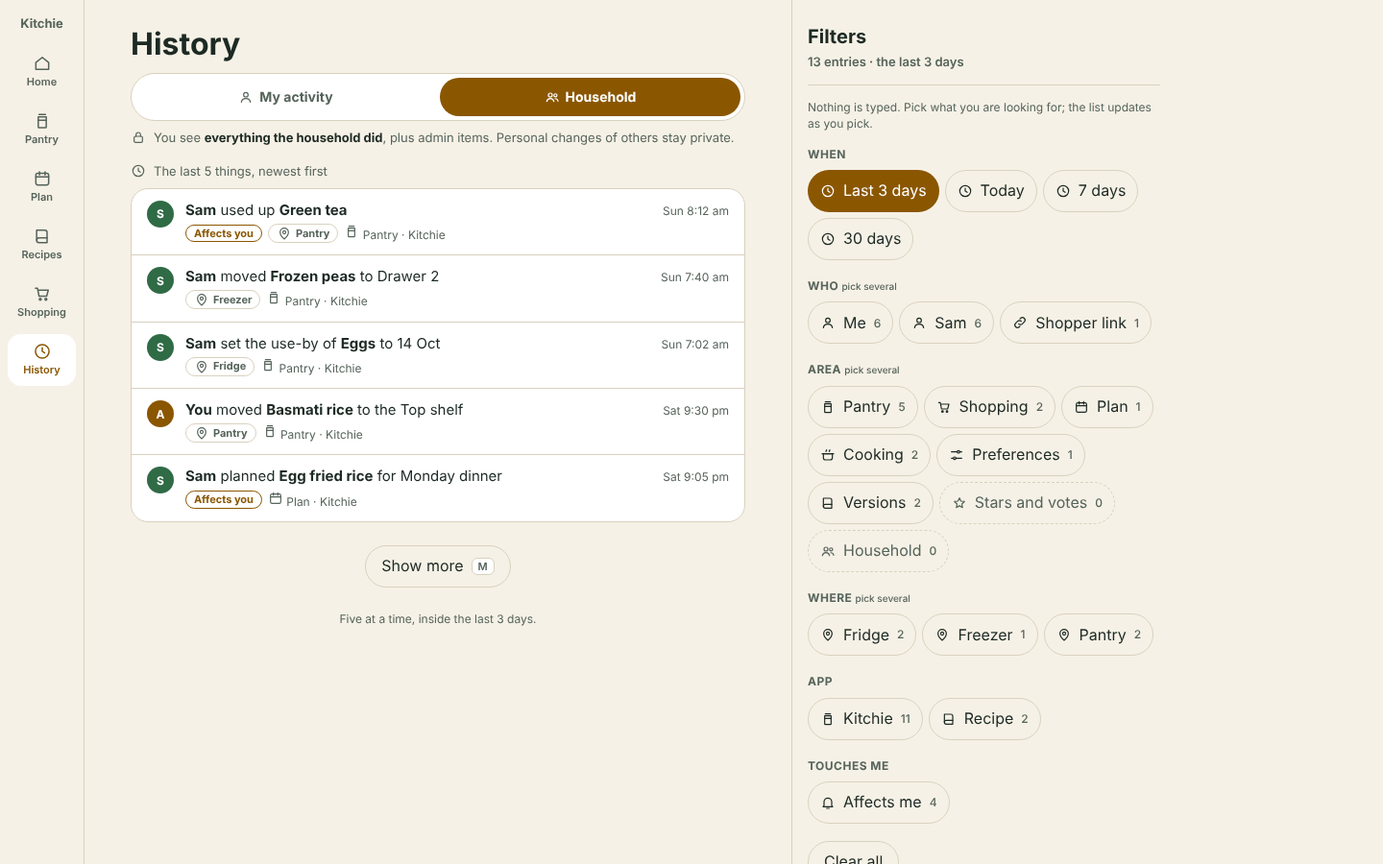
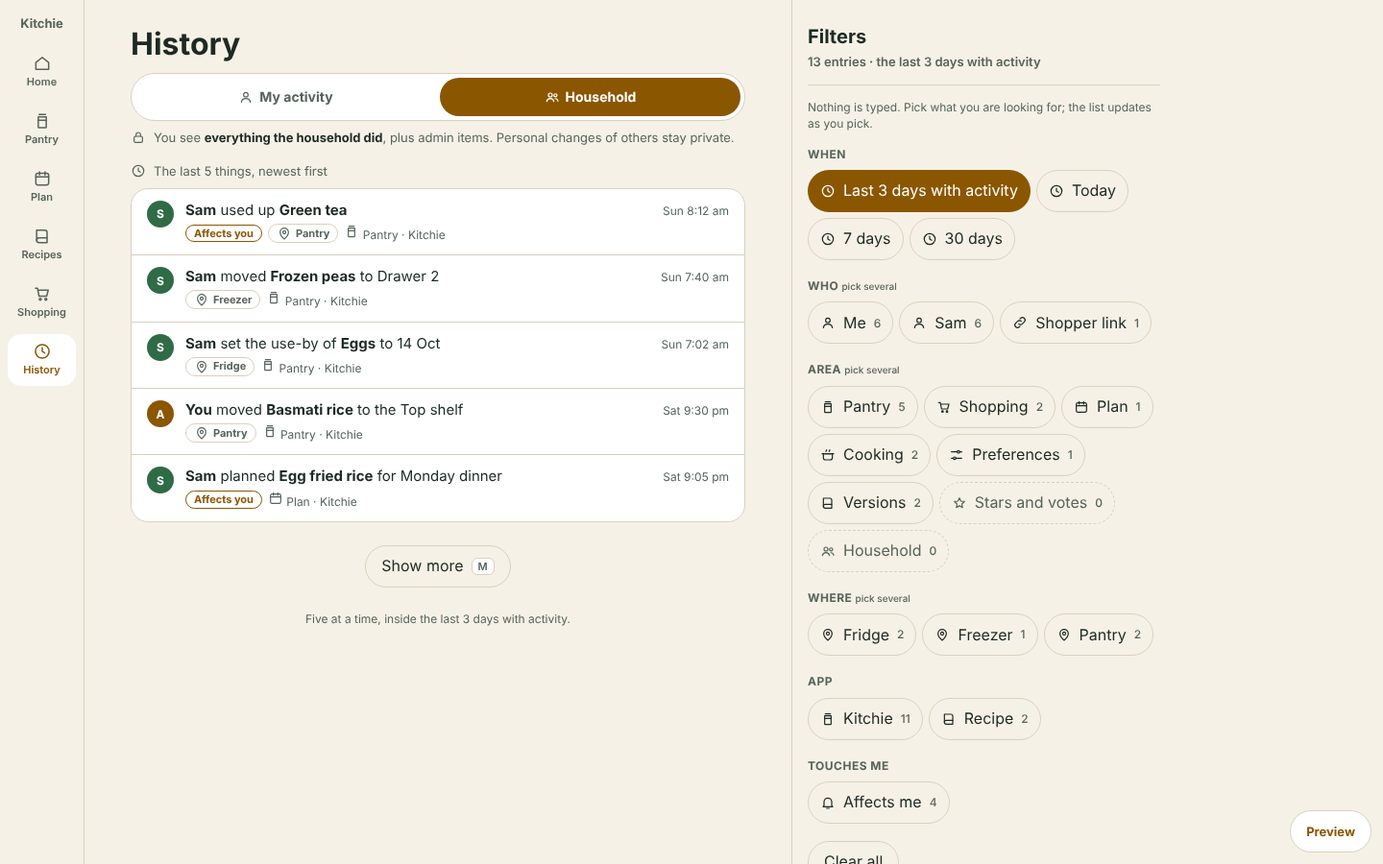
History option D: the cap is three calendar days with a change; sample shows a skipped quiet day (H6)
Claude-Session: https://claude.ai/code/session_01X9mXLMoS8997Sm3EbLynaE

diff --git a/history/option-d/option-d.js b/history/option-d/option-d.js
@@ -31,10 +31,11 @@ var P={
 };
 var ic=function(n,c){return '<svg viewBox="0 0 24 24" aria-hidden="true"'+(c?' class="'+c+'"':'')+'>'+(P[n]||"")+'</svg>'};
 
-/* ---------- sample world (Sun 11 Oct 2026, 9:15 am) ---------- */
+/* ---------- sample world (Sun 11 Oct 2026, 9:15 am) ----------
+   Activity runs Sun 11, Sat 10, (quiet Fri 9: no entries), Thu 8, then Wed 7 and Tue 6 which the cap must NOT show. Offsets d: 0,1,3 shown; 2 has no entry; 5+ are beyond the third active day. */
 var NOW=9*60+15;
 var LASTV={wed:{v:-4*1440+18*60+40,t:"Wed 7 Oct, 6:40 pm"},sat:{v:-1440+18*60+40,t:"Sat 10 Oct, 6:40 pm"}};
-var CAP=2; /* H6: three days = today and the two days before (Proposal: calendar days, not 72 hours) */
+var CAPDAYS=3; /* H6 (owner, voice, 12 Oct 2026: "calendar days, so long as there was a change"): the feed shows the three most recent calendar days that each had at least one change. Quiet days are skipped when counting, so this is neither a rolling 72 hours nor the last three calendar days. capD() below turns it into a day offset. */
 var PEOPLE={arjan:{n:"Arjan",i:"A",admin:1},sam:{n:"Sam",i:"S"}};
 /* actor = a person (H10). An assistant's action is stored under the person it acted for. "shop" is the one-off shopper link: a visitor, not an assistant. */
 var ACT={arjan:{n:"Arjan",i:"A",k:"person"},sam:{n:"Sam",i:"S",k:"person"},shop:{n:"Shopper link",i:"L",k:"visitor"}};
@@ -54,27 +55,27 @@ var EV=[
 {id:"e9",d:1,t:"12:10",w:"arjan",x:"put *Soy sauce* on the shopping list",ar:"Shopping",app:"kitchie",sc:"h",go:"item:soy",aff:{sam:"Soy sauce is on the list. You corrected its amount on Wednesday."}},
 {id:"e10",d:1,t:"09:30",w:"sam",x:"voted up *Lemon dal*",ar:"Stars and votes",app:"recipe",sc:"p",o:"sam",go:"recipe:dal"},
 {id:"e11",d:1,t:"09:28",w:"sam",x:"changed a personal preference: less coriander",ar:"Preferences",app:"kitchie",sc:"p",o:"sam",go:"all:"},
-{id:"e12",d:2,t:"20:15",w:"arjan",x:"cooked *Lemon dal*, used 3 items",ar:"Cooking",app:"kitchie",sc:"h",go:"recipe:dal"},
-{id:"e13",d:2,t:"18:05",w:"arjan",x:"edited *Lemon dal*: more lemon",ar:"Versions",app:"recipe",sc:"h",go:"recipe:dal"},
-{id:"e14",d:2,t:"11:00",w:"sam",x:"proposed a preference for Arjan: *less spicy at dinner*",ar:"Preferences",app:"kitchie",sc:"p",o:"arjan",to:"arjan",go:"all:",aff:{arjan:"Sam proposed a preference for you: less spicy at dinner. Waiting for you."},act:"Look"},
-{id:"e15",d:2,t:"09:12",w:"arjan",x:"changed the household quiet hours to start at 10 pm",ar:"Preferences",app:"kitchie",sc:"h",go:"all:",aff:{sam:"The household quiet hours now start at 10 pm. Your own setting is unchanged."}},
-{id:"e16",d:3,t:"19:00",w:"arjan",x:"changed the use-by of *Frozen peas* to 14 Oct",ar:"Pantry",app:"kitchie",pl:"Freezer",sc:"h",go:"item:peas"},
-{id:"e17",d:3,t:"17:40",w:"sam",x:"corrected *Red lentils* to 400 g",ar:"Pantry",app:"kitchie",pl:"Pantry",sc:"h",go:"item:lentils"},
-{id:"e18",d:3,t:"14:10",w:"arjan",x:"added *Red lentils, 1 kg* to the shopping list",ar:"Shopping",app:"kitchie",sc:"h",go:"item:lentils"},
-{id:"e19",d:4,t:"21:00",w:"arjan",x:"changed Sam's role to Sous chef",ar:"Household",app:"kitchie",sc:"a",go:"all:"},
-{id:"e20",d:4,t:"18:30",w:"arjan",x:"checked the amount of *Basmati rice*: still about right",ar:"Pantry",app:"kitchie",pl:"Pantry",sc:"h",go:"item:rice"},
-{id:"e21",d:4,t:"12:00",w:"sam",x:"corrected *Eggs* to 6",ar:"Pantry",app:"kitchie",pl:"Fridge",sc:"h",go:"item:eggs"}
+{id:"e12",d:3,t:"20:15",w:"arjan",x:"cooked *Lemon dal*, used 3 items",ar:"Cooking",app:"kitchie",sc:"h",go:"recipe:dal"},
+{id:"e13",d:3,t:"18:05",w:"arjan",x:"edited *Lemon dal*: more lemon",ar:"Versions",app:"recipe",sc:"h",go:"recipe:dal"},
+{id:"e14",d:3,t:"11:00",w:"sam",x:"proposed a preference for Arjan: *less spicy at dinner*",ar:"Preferences",app:"kitchie",sc:"p",o:"arjan",to:"arjan",go:"all:",aff:{arjan:"Sam proposed a preference for you: less spicy at dinner. Waiting for you."},act:"Look"},
+{id:"e15",d:3,t:"09:12",w:"arjan",x:"changed the household quiet hours to start at 10 pm",ar:"Preferences",app:"kitchie",sc:"h",go:"all:",aff:{sam:"The household quiet hours now start at 10 pm. Your own setting is unchanged."}},
+{id:"e16",d:4,t:"19:00",w:"arjan",x:"changed the use-by of *Frozen peas* to 14 Oct",ar:"Pantry",app:"kitchie",pl:"Freezer",sc:"h",go:"item:peas"},
+{id:"e17",d:4,t:"17:40",w:"sam",x:"corrected *Red lentils* to 400 g",ar:"Pantry",app:"kitchie",pl:"Pantry",sc:"h",go:"item:lentils"},
+{id:"e18",d:4,t:"14:10",w:"arjan",x:"added *Red lentils, 1 kg* to the shopping list",ar:"Shopping",app:"kitchie",sc:"h",go:"item:lentils"},
+{id:"e19",d:5,t:"21:00",w:"arjan",x:"changed Sam's role to Sous chef",ar:"Household",app:"kitchie",sc:"a",go:"all:"},
+{id:"e20",d:5,t:"18:30",w:"arjan",x:"checked the amount of *Basmati rice*: still about right",ar:"Pantry",app:"kitchie",pl:"Pantry",sc:"h",go:"item:rice"},
+{id:"e21",d:5,t:"12:00",w:"sam",x:"corrected *Eggs* to 6",ar:"Pantry",app:"kitchie",pl:"Fridge",sc:"h",go:"item:eggs"}
 ];
 var MORE=[
-{id:"m1",d:5,t:"19:20",w:"arjan",x:"cooked *Lemon dal*, used 4 items",ar:"Cooking",app:"kitchie",sc:"h",go:"recipe:dal"},
-{id:"m2",d:5,t:"10:00",w:"sam",x:"added *Green tea* to the Basket",ar:"Pantry",app:"kitchie",pl:"Pantry",sc:"h",go:"item:tea"},
-{id:"m3",d:6,t:"18:00",w:"arjan",x:"saved *Lemon dal* with extra lemon as a try",ar:"Versions",app:"recipe",sc:"h",go:"recipe:dal"},
+{id:"m1",d:6,t:"19:20",w:"arjan",x:"cooked *Lemon dal*, used 4 items",ar:"Cooking",app:"kitchie",sc:"h",go:"recipe:dal"},
+{id:"m2",d:6,t:"10:00",w:"sam",x:"added *Green tea* to the Basket",ar:"Pantry",app:"kitchie",pl:"Pantry",sc:"h",go:"item:tea"},
+{id:"m3",d:7,t:"18:00",w:"arjan",x:"saved *Lemon dal* with extra lemon as a try",ar:"Versions",app:"recipe",sc:"h",go:"recipe:dal"},
 {id:"m4",d:7,t:"09:40",w:"arjan",x:"put *Egg fried rice* version 4 away",ar:"Versions",app:"recipe",sc:"h",go:"recipe:fried-rice"},
-{id:"m5",d:9,t:"20:10",w:"sam",x:"starred *Egg fried rice*",ar:"Stars and votes",app:"recipe",sc:"p",o:"sam",go:"recipe:fried-rice"}
+{id:"m5",d:10,t:"20:10",w:"sam",x:"starred *Egg fried rice*",ar:"Stars and votes",app:"recipe",sc:"p",o:"sam",go:"recipe:fried-rice"}
 ];
 var AREAS=["Pantry","Shopping","Plan","Cooking","Preferences","Versions","Stars and votes","Household"];
 var AREAICON={Pantry:"jar",Shopping:"cart",Plan:"cal",Cooking:"pot",Preferences:"sliders",Versions:"book","Stars and votes":"star",Household:"users"};
-var RANGES=[["3d","Last 3 days"],["today","Today"],["week","7 days"],["month","30 days"]];
+var RANGES=[["3d","Last 3 days with activity"],["today","Today"],["week","7 days"],["month","30 days"]];
 var GROUPS=[["when","When","clock"],["who","Who","users"],["area","Area","jar"],["place","Where","pin"],["app","App","book"],["aff","Touches me","bell"]];
 
 /* ---------- state ---------- */
@@ -99,6 +100,12 @@ function visible(e,p){ /* privacy and scope, D6 to D8 */
  if(e.sc==="a")return !!PEOPLE[p].admin;
  if(e.sc==="p")return e.o===p||e.to===p;
  return false}
+/* H6 cap: the day offset of the third most recent calendar day with a change the viewer can see. Counts active days, never calendar offsets; a quiet day adds nothing, so the feed looks further back until it has three. */
+function capD(){
+ var seen={},days=[];
+ EV.concat(MORE).forEach(function(e){if(visible(e,me())&&!seen[e.d]){seen[e.d]=1;days.push(e.d)}});
+ days.sort(function(a,b){return a-b});
+ return days.length?days[Math.min(CAPDAYS,days.length)-1]:0}
 function pool(){return EV.concat(S.range==="week"||S.range==="month"?MORE:[]).sort(function(a,b){return absMin(b)-absMin(a)})}
 function tabOK(e){
  var p=me();
@@ -116,18 +123,18 @@ function tokOK(e,skip){ /* same filter type = OR, different types = AND */
  var types={};S.toks.forEach(function(t){if(t.t!==skip){(types[t.t]=types[t.t]||[]).push(t)}});
  return Object.keys(types).every(function(k){return types[k].some(function(t){return tokOne(e,t)})})}
 function rangeOK(e){
- if(S.range==="3d")return e.d<=CAP;
+ if(S.range==="3d")return e.d<=capD();
  if(S.range==="today")return e.d===0;
  if(S.range==="week")return e.d<=7;
  return true}
 function list(){return pool().filter(function(e){return visible(e,me())&&tabOK(e)&&tokOK(e)&&rangeOK(e)})}
-function catchAll(){return pool().filter(function(e){return e.d<=CAP&&absMin(e)>S.seen&&visible(e,me())})}
+function catchAll(){return pool().filter(function(e){return e.d<=capD()&&absMin(e)>S.seen&&visible(e,me())})}
 function catchPool(){return catchAll().filter(tabOK)}
 function catchList(){var L=catchPool();return S.aff?L.filter(function(e){return e.aff&&e.aff[me()]}):L}
-function capCut(){return S.seen<-CAP*1440} /* the cap cut the window: last visit is older than the cap */
-function hidden(){var o={};pool().forEach(function(e){if(e.d<=CAP&&e.sc==="p"&&e.o!==me()&&e.to!==me()){var k=e.d+"|"+e.o;o[k]=(o[k]||0)+1}});return o}
+function capCut(){return S.seen<-capD()*1440} /* the cap cut the window: the last visit is older than the start of the third active day */
+function hidden(){var o={};pool().forEach(function(e){if(e.d<=capD()&&e.sc==="p"&&e.o!==me()&&e.to!==me()){var k=e.d+"|"+e.o;o[k]=(o[k]||0)+1}});return o}
 function hiddenTotal(){var H=hidden();return Object.keys(H).reduce(function(s,k){return s+H[k]},0)}
-function hlList(){return EV.filter(function(e){return e.d<=CAP&&absMin(e)>S.seen&&visible(e,me())&&e.aff&&e.aff[me()]}).sort(function(a,b){return absMin(b)-absMin(a)})}
+function hlList(){return EV.filter(function(e){return e.d<=capD()&&absMin(e)>S.seen&&visible(e,me())&&e.aff&&e.aff[me()]}).sort(function(a,b){return absMin(b)-absMin(a)})}
 function shortDay(d){return ["Sun","Sat","Fri","Thu","Wed","Tue","Mon","Sun","Sat","Fri","Thu"][d]}
 function dayLabel(d){var names=["Sun","Sat","Fri","Thu","Wed","Tue","Mon","Sun","Sat","Fri","Thu"];var dn=11-d;
  return {a:d===0?"Today":d===1?"Yesterday":names[d]+" "+dn+" Oct",b:d<2?names[d]+" "+dn+" Oct":""}}
@@ -171,8 +178,8 @@ function dayBlocks(L,byTimeAll){
   out+='</section>'});
  return out}
 function olderLine(){ /* H6 Proposal: the cap cut the window */
- return '<div class="more cap"><p class="capline">'+ic("clock","sm")+'<span>Showing the last 3 days. Search for older.</span></p><button type="button" class="sec2" data-pick>'+ic("sliders","sm")+' Pick a filter <span class="kbd">F</span></button></div>'}
-function skeleton(){var r='<div class="sk"><span class="av"></span><div><i></i><i class="s"></i></div></div>';return '<div aria-busy="true" aria-label="Loading history"><section class="day"><div class="lbl sklbl"><i></i></div><div class="pg">'+r+r+r+'</div></section><p class="note">Fetching the last 3 days, this tab only.</p></div>'}
+ return '<div class="more cap"><p class="capline">'+ic("clock","sm")+'<span>Showing the last 3 days with activity. Search for older.</span></p><button type="button" class="sec2" data-pick>'+ic("sliders","sm")+' Pick a filter <span class="kbd">F</span></button></div>'}
+function skeleton(){var r='<div class="sk"><span class="av"></span><div><i></i><i class="s"></i></div></div>';return '<div aria-busy="true" aria-label="Loading history"><section class="day"><div class="lbl sklbl"><i></i></div><div class="pg">'+r+r+r+'</div></section><p class="note">Fetching the last 3 days with activity, this tab only.</p></div>'}
 function feed(){
  if(S.state==="loading")return skeleton();
  if(S.state==="empty")return emptyState("empty");
@@ -185,15 +192,15 @@ function feed(){
  if(!L.length)return isFiltered()?emptyState("zero"):emptyState(S.tab==="mine"?"mineEmpty":"empty");
  if(!isFiltered()){ /* H7b, H8: the last five, newest first, five in total across pantry, recipes and shopping (Proposal) */
   var shown=L.slice(0,S.n),out='<p class="lastn">'+ic("clock","sm")+'<span>The last '+Math.min(S.n,L.length)+' things, newest first</span></p><div class="pg flatlist">'+shown.map(function(e){return evRow(e,true)}).join("")+'</div>';
-  if(L.length>S.n)out+='<div class="more"><button type="button" class="sec2" data-more>Show more <span class="kbd">M</span></button></div><p class="note">Five at a time, inside the last 3 days.</p>';
-  else out+='<div class="more cap"><p class="capline">'+ic("clock","sm")+'<span>That is all of the last 3 days. Pick a filter to look further back.</span></p><button type="button" class="sec2" data-pick>'+ic("sliders","sm")+' Pick a filter <span class="kbd">F</span></button></div>';
+  if(L.length>S.n)out+='<div class="more"><button type="button" class="sec2" data-more>Show more <span class="kbd">M</span></button></div><p class="note">Five at a time, inside the last 3 days with activity.</p>';
+  else out+='<div class="more cap"><p class="capline">'+ic("clock","sm")+'<span>That is all of the last 3 days with activity. Pick a filter to look further back.</span></p><button type="button" class="sec2" data-pick>'+ic("sliders","sm")+' Pick a filter <span class="kbd">F</span></button></div>';
   return out}
  return dayBlocks(L,true)}
-function rangeName(){return {"3d":"the last 3 days",today:"today",week:"the last 7 days",month:"the last 30 days"}[S.range]}
+function rangeName(){return {"3d":"the last 3 days with activity",today:"today",week:"the last 7 days",month:"the last 30 days"}[S.range]}
 function emptyState(k){
  var m={
   empty:['bowl','A quiet kitchen so far','Add a jar of something or cook a meal and it lands here, with who did it.','<button class="pri" data-act="plain">See a lively kitchen</button>'],
-  mineEmpty:['bowl','Nothing from you in the last 3 days','Your own changes and your votes show here.','<button class="sec2" data-tab="house">See the household</button>'],
+  mineEmpty:['bowl','Nothing from you in the last 3 days with activity','Your own changes and your votes show here.','<button class="sec2" data-tab="house">See the household</button>'],
   quiet:['check','Nothing since you were last here','All quiet. The last five things are one tap away.','<button class="pri" data-closecatch>Show the last five</button>'],
   none:['bell','None of these touch you','Nothing in the catch-up affects you.','<button class="sec2" data-affoff>Show all changes</button>']
  }[k];
@@ -213,7 +220,7 @@ function catchCard(){
  if(!all.length)return '<section class="catch" aria-label="Since you were last here"><div class="chead"><h2>'+ic("check")+'You are all caught up</h2>'+x+'</div><p class="sum">Nothing new since '+(S.seen>=NOW?"you cleared it just now":esc(S.lastTxt))+'. Enjoy the quiet.</p></section>';
  var rows=hl.slice(0,4).map(function(e){
   return '<div class="hl"><span class="ico">'+ic(e.rev?"book":e.w==="shop"?"cart":"bell")+'</span><div class="tx">'+esc(e.aff[me()])+'<small>'+esc(who(e))+' · '+dayLabel(e.d).a.toLowerCase()+', '+fmt(e.t)+'</small></div>'+(e.act?'<a class="go" href="'+href(e)+'">'+esc(e.act)+'</a>':'')+'</div>'}).join("");
- return '<section class="catch" aria-label="Since you were last here"><div class="chead"><h2>'+ic("bell")+'Since you were last here</h2>'+x+'</div><p class="sum">'+esc(S.lastTxt)+' · '+all.length+' change'+(all.length===1?"":"s")+(capCut()?' in the last 3 days':'')+(parts.length?': '+esc(parts.join(", ")):"")+'</p>'+
+ return '<section class="catch" aria-label="Since you were last here"><div class="chead"><h2>'+ic("bell")+'Since you were last here</h2>'+x+'</div><p class="sum">'+esc(S.lastTxt)+' · '+all.length+' change'+(all.length===1?"":"s")+(capCut()?' in the last 3 days with activity':'')+(parts.length?': '+esc(parts.join(", ")):"")+'</p>'+
   (hl.length?'<div class="lbl2">Affects you · '+hl.length+'</div>'+rows+(hl.length>4?'<p class="note left">and '+(hl.length-4)+' more in the feed, marked Affects you.</p>':''):'<p class="sum">Nothing changed that touches you.</p>')+
   (hl.length?'<div class="foot"><button type="button" class="lnk2" data-aff>'+(S.aff?'Show all changes':'Show only these')+'</button></div>':'')+'</section>'}
 
@@ -242,7 +249,7 @@ function filtersPanel(){ /* desktop lane: Proposal, H8 */
   '<p class="fhint">Nothing is typed. Pick what you are looking for; the list updates as you pick.</p>'+
   GROUPS.map(function(g){return sec(g,g[0]==="who"||g[0]==="area"||g[0]==="place"?"pick several":"")}).join("")+
   '<div class="acts2"><button type="button" class="sec2" data-clear>Clear all'+(n?' ('+n+')':'')+'</button>'+(always?'':'<button type="button" class="pri" data-closepanel>'+ic("check")+' Done</button>')+'</div>'+
-  '<p class="rule">'+ic("info","sm")+'<span>Counts are of what is already loaded for this tab. A range wider than 3 days asks the server for that window.</span></p></div></div>'}
+  '<p class="rule">'+ic("info","sm")+'<span>Counts are of what is already loaded for this tab. A range wider than the last 3 days with activity asks the server for that window.</span></p></div></div>'}
 function groupValue(g){
  if(g==="when")return RANGES.filter(function(r){return r[0]===S.range})[0][1];
  var v=S.toks.filter(function(t){return t.t===(g==="aff"?"aff":g)}).map(tokLabel);return v.length?v.join(", "):"Any"}
@@ -255,7 +262,7 @@ function sheetHtml(){ /* phone: H7a. Modelled on Pantry's Filters sheet (.sheet.
   '<div class="fbody">'+body+'</div><div class="ffoot"><button type="button" class="pri wide" data-closepanel>Show '+n+' '+(n===1?'entry':'entries')+'</button><div class="flinks"><button type="button" class="link" data-clear>Clear</button><span></span></div></div></div></div>'}
 function scopeCard(){
  var adm=PEOPLE[me()].admin,hn=hiddenTotal();
- return '<div class="rule">'+ic("lock","sm")+'<span>'+(adm?'You are an <b>admin</b>: you also see household admin items. ':'You see the household\'s changes. Admin-only items are not shown to you. ')+'Other people\'s personal changes ('+hn+' in the last 3 days) stay private for everyone, admins too.</span></div>'}
+ return '<div class="rule">'+ic("lock","sm")+'<span>'+(adm?'You are an <b>admin</b>: you also see household admin items. ':'You see the household\'s changes. Admin-only items are not shown to you. ')+'Other people\'s personal changes ('+hn+' in the last 3 days with activity) stay private for everyone, admins too.</span></div>'}
 
 function railHtml(){
  var it=[["home","Home"],["jar","Pantry"],["cal","Plan"],["book","Recipes"],["cart","Shopping"],["clock","History"]];

diff --git a/docs/knowledge/history-option-d.md b/docs/knowledge/history-option-d.md
@@ -18,7 +18,7 @@ Later locked decisions (owner, voice, 11 Oct 2026, `history-options.md`): H4 cat
 
 Job: "I have been away. What happened in our kitchen, who did it, and does it affect me?"
 
-- **Entry (H4, H6, H8):** the "Since you were last here" catch-up, grouped by day, then person. **At most three days** (today and the two before, a Proposal), even if the last visit was longer ago. When the cap cut the window the feed ends with "Showing the last 3 days. Search for older." and a Pick a filter button (Proposal wording from H6).
+- **Entry (H4, H6, H8):** the "Since you were last here" catch-up, grouped by day, then person. **At most three calendar days that each had a change** (owner, voice, 12 Oct 2026: "calendar days, so long as there was a change"): quiet days are skipped when counting, and the feed looks back until it has three active days, even if the last visit was longer ago. Not a rolling 72 hours, not simply the last three calendar days. When the cap cut the window the feed ends with "Showing the last 3 days with activity. Search for older." and a Pick a filter button (Proposal wording from H6).
 - **Tabs (H10):** My activity and Household only. An assistant's action is shown as the person it acted for, with no extra mark.
 - **The X (H7, H7b):** an X on the catch-up clears it and shows the **last five** entries, newest first, with Show more (five at a time, inside the cap).
 - **Phone (H7a):** after the X, a Filters icon and "Pick a filter" open a bottom sheet drawn like Pantry's Filters sheet (`.sheet.tall`, `.strow`, `.mc` classes): first a list of filter groups (When, Who, Area, Where, App, Touches me), then the options of the one picked. Nothing is typed.
@@ -57,7 +57,7 @@ Marked **Superseded** where an owner decision removed them. Everything else is a
 
 - **D1. Feed first, search second.** **Revised:** the catch-up feed is first; "search" past it is structured filters only (H9). No search field.
 - **D2. Three tabs.** **Superseded by H10:** two tabs, My activity and Household. Default Household; keys 1 and 2. Each tab shows a count of changes not seen.
-- **D3. The window rule.** **Superseded by H6:** the window is since the last visit, at most three days (today and the two before; a rolling 72 hours is the open alternative). "Show 5 more days" is gone; older is a filter (When: 7 or 30 days).
+- **D3. The window rule.** **Superseded by H6:** the window is since the last visit, at most the three most recent calendar days that each had a change (quiet days skipped; not a rolling 72 hours). "Show 5 more days" is gone; older is a filter (When: 7 or 30 days).
 - **D4. Day, then person.** Inside a day, one card per person (initial, name, count). "By time" is a switch for one flat list. My activity is always flat. **Revised:** assistants are not separate cards (H10).
 - **D5. "Since you were last here" is cleared by the X.** **Revised (H7b Proposal):** the X, or key C, counts as caught up, so a dismissed catch-up is the new "last seen". The old "Mark as caught up" button is gone.
 - **D6. Privacy: shared by default, personal stays personal.** Unchanged.
@@ -68,14 +68,14 @@ Marked **Superseded** where an owner decision removed them. Everything else is a
 - **D11. Assistants tab.** **Superseded by H10.** Removed, with its card and filter.
 - **D12. Affects me.** Unchanged: a chip, the catch-up card (up to 4, then "and n more") and a filter. Computed on the server when the event is written.
 - **D13. Search is a typeahead of tokens.** **Superseded by H9.** Removed.
-- **D14. One filters set.** **Revised:** When (Last 3 days, Today, 7 days, 30 days), Who (me, the other member, shopper link), Area, Where, App, Touches me. Same type combines with OR, different types with AND. Counts shown; zero is dashed (as Pantry Filters). Phone: bottom sheet in two steps (pick a group, then options). Desktop: panel in the lane.
+- **D14. One filters set.** **Revised:** When (Last 3 days with activity, Today, 7 days, 30 days), Who (me, the other member, shopper link), Area, Where, App, Touches me. Same type combines with OR, different types with AND. Counts shown; zero is dashed (as Pantry Filters). Phone: bottom sheet in two steps (pick a group, then options). Desktop: panel in the lane.
 - **D15. Desktop layout.** Rail, 640px column, 400px lane (360px below 1240px). The lane shows the catch-up card (with its X) or the filter panel (F). Detail is no longer drawn here (H5), so the lane never holds a detail.
 - **D16. Phone layout.** One column; catch-up card on top; X on the card; after the X a Filters icon in the header and a Pick a filter button under the list. No key hints on touch.
 - **D17. Only changes are history.** Unchanged.
 - **D18. Undo.** **Superseded here:** undo lives in option C's flyout (H5).
 - **D19. Keys.** `F` filters, `1 2` tabs, `J K` move between entries (Enter opens), `G` group (catch-up), `C` clear the catch-up, `M` show more (last five), Ctrl/Cmd+Esc closes the open panel, Shift+? lists them (`shortcut-cues.md`). Removed: `/` search, `3`, `Z` undo, plain Esc clears search. `,` is left alone (item History in the Pantry).
-- **D20. Empty and zero states are playful and honest.** New household: "A quiet kitchen so far". Nothing from me: "Nothing from you in the last 3 days". Nothing since the last visit: "Nothing since you were last here" with Show the last five. Loading: skeleton rows, this tab only. No results: names the filters, "Look back 30 days" and "Clear filters".
-- **D21. (new) Last five.** Five newest entries in total across pantry, recipes and shopping, newest first, inside the three-day cap, Show more adds five. Proposal; whether five is per area is open.
+- **D20. Empty and zero states are playful and honest.** New household: "A quiet kitchen so far". Nothing from me: "Nothing from you in the last 3 days with activity". Nothing since the last visit: "Nothing since you were last here" with Show the last five. Loading: skeleton rows, this tab only. No results: names the filters, "Look back 30 days" and "Clear filters".
+- **D21. (new) Last five.** Five newest entries in total across pantry, recipes and shopping, newest first, inside the cap (three days with activity), Show more adds five. Proposal; whether five is per area is open.
 - **D22. (new) Catch-up shows everything in the window.** The catch-up feed is not itself limited to five; only the list after the X is.
 
 ## Open questions (what a wrong guess costs)
@@ -84,16 +84,18 @@ Marked **Superseded** where an owner decision removed them. Everything else is a
 - **O2. "There's only two things in the mobile."** The owner did not finish. Not guessed: the mockup does not assume two filter groups or two views (the sheet lists six groups).
 - **O3. Does a mark show an entry was done through an assistant (voice, chat) (H10)?** None is drawn and none is invented. Wrong guess either way: one chip.
 - **O4. Is a plain keyword box that matches only item, recipe and member names still wanted (H9 open)?** Not drawn.
-- **O5. Is the three-day cap calendar days or 72 hours?** Drawn: calendar days.
+- **O5. Is the three-day cap calendar days or 72 hours?** Settled by the owner (12 Oct 2026): calendar days with a change; quiet days are skipped. Drawn.
 - **O6. Does the catch-up itself stop at five, or only the list after the X?** Drawn: only after the X.
 - **O7. Desktop uses a filter panel rather than the phone's sheet, and the last five apply after leaving the catch-up (H8 Proposals to confirm).**
 - **O8. Does the X count as caught up?** Drawn: yes (H7b Proposal).
 - **O9. Where do entries with no item, recipe or day (preferences, household, shopping lists) open in option C?** Drawn: Everything.
 - **O10. Are votes and stars personal (D6), may admins see personal entries (D7), is "last seen" per person on the server or per device, how long is history kept?** As before: shared questions in `history-options.md`.
 
+**Mockup note (cap, H6):** the sample (Sun 11 Oct) now demonstrates the rule: Today (Sun 11) and Yesterday (Sat 10) are active, Fri 9 Oct has no entries and is skipped, Thu 8 Oct is the third active day, and the entries on Wed 7 Oct and earlier do not show. The code counts active days (`capD()` in `option-d.js`), not calendar offsets.
+
 ## What the default path loads, and what waits (`DESIGN.md` section 6)
 
-- **Loads on open:** the page, `option-d.css` (about 15 KB) and `option-d.js` (about 40 KB, includes the sample data that the build replaces with a call), `theme.css`, `shared.css`, `cues.css`. One call: the **active tab only**, for the last 3 days at most, since the last visit, grouped on the server, with the catch-up line fields (`affects` for me) included. The other two tabs show only a count (a small count call, or one number in the same response).
-- **Deferred until asked:** the other tab; the last-five list (fetched when the X is pressed; it is inside the window already loaded, so no call is needed unless the catch-up was empty); anything wider than three days (a server window, only when a When filter is picked); filter counts (fetched on opening Filters); the entry itself (option C's flyout loads on tap, never preloaded); the shortcuts list (built on first Shift+?); other themes (theme.js).
+- **Loads on open:** the page, `option-d.css` (about 15 KB) and `option-d.js` (about 40 KB, includes the sample data that the build replaces with a call), `theme.css`, `shared.css`, `cues.css`. One call: the **active tab only**, for the last 3 days with activity at most, since the last visit, grouped on the server, with the catch-up line fields (`affects` for me) included. The other two tabs show only a count (a small count call, or one number in the same response).
+- **Deferred until asked:** the other tab; the last-five list (fetched when the X is pressed; it is inside the window already loaded, so no call is needed unless the catch-up was empty); anything wider than the last 3 days with activity (a server window, only when a When filter is picked); filter counts (fetched on opening Filters); the entry itself (option C's flyout loads on tap, never preloaded); the shortcuts list (built on first Shift+?); other themes (theme.js).
 - **Never loaded:** other people's personal entries (counted by the server, not sent), admin-only entries for members.
 - **Nothing refreshes by itself.** A "new since you opened" pill is a Proposal for later; the mockup does not poll.

diff --git a/docs/knowledge/history-options.md b/docs/knowledge/history-options.md
@@ -35,7 +35,7 @@ Mockups revised to match: `history/option-d/` (entry, phone and desktop) and `hi
 - **H3. (Narrowed by H9.) If a search box is used, it reads typed text by fixed rules only, no assistant.** Known time phrases, item and member names from the household's own data, and a set list of action words, matched locally. Answers open question 6 below.
 - **H4. Phone entry is option D's "Since you were last here" feed (owner, voice, 11 Oct 2026: "we'll lock in since you were last here").** It is the default view on phone, grouped by day and person (D's layout), with a short recent window only. A standalone search-first page (option A) is not the phone's primary entry.
 - **H5. The detail view is the same whichever way you arrive.** The owner: the detail flyout is pretty much the same between A and D. Tapping an entry opens option C's in-context flyout for that item, recipe or shopping entry (H2).
-- **H6. Load only a short recent window by default** ("so that we are efficient on how much data we are pulling"). Going further back or looking for something specific is a search, a secondary action. **Cap (owner, voice, 11 Oct 2026): the feed keeps three days of data at most**, even if it has been longer since the last visit. **The three days are calendar days that had a change (owner, voice, 12 Oct 2026: "calendar days, so long as there was a change")**: not a rolling 72 hours, and not simply the last three calendar days. Quiet days with nothing in them are skipped; the feed looks back until it has three distinct calendar days that each have at least one change, then stops. The "Showing the last 3 days" line should read as three days with activity. **Mockup note:** option D still draws "today and the two days before" (see `CAP` in `history/option-d/option-d.js`); it does not yet show quiet days being skipped. The rule above is what the build follows. Within that, the window is since the last visit. Anything older is found through the search (H7). **Proposal:** show a line such as "Showing the last 3 days. Search for older." when the cap cut the window.
+- **H6. Load only a short recent window by default** ("so that we are efficient on how much data we are pulling"). Going further back or looking for something specific is a search, a secondary action. **Cap (owner, voice, 11 Oct 2026): the feed keeps three days of data at most**, even if it has been longer since the last visit. **The three days are calendar days that had a change (owner, voice, 12 Oct 2026: "calendar days, so long as there was a change")**: not a rolling 72 hours, and not simply the last three calendar days. Quiet days with nothing in them are skipped; the feed looks back until it has three distinct calendar days that each have at least one change, then stops. The "Showing the last 3 days" line should read as three days with activity. **Mockup note:** option D now shows it: the sample has a quiet day (Fri 9 Oct, no entries) that the feed skips between Sat 10 and Thu 8 Oct, stops at three active days, and does not show Wed 7 Oct or older (`capD()` in `history/option-d/option-d.js`). The line reads "Showing the last 3 days with activity. Search for older." **Proposal:** show a line such as "Showing the last 3 days with activity. Search for older." when the cap cut the window.
 - **H7. An X on the catch-up feed leaves it and opens a search of the history** (owner, voice, 11 Oct 2026: "when that's showing, there's an X out to go into a search of the history"). It is the way to dig past the three-day window, not the front door. **What the search is: structured filters (H7a, H9), not typing.** **Proposal:** a dismissed catch-up counts as caught up for "last seen".
 - **H7a. On phone the search is a filter pick, not typing (owner, voice, 11 Oct 2026).** The X clears the catch-up and brings in the search part of History. There you pick one of the filters "from the bottom", and it should be very much like the existing filter sheet and panel (Pantry's Filters): you come to it with a pick-a-filter step. This replaces the free-text box on phone: **no typed or "ask it" search at all on phone, filter sheet only** (owner, voice, 11 Oct 2026: "there is no ask it like you would say it part"). The typed, fixed-rules search (H3) applies only where a search box exists, which is desktop if it keeps one.
 - **H7b. After the X, phone shows the last five recent entries, five in total (LOCKED, owner, typed, 12 Oct 2026: "five in total").** Voice, 11 Oct 2026: "when they exit out of it, it shows the first five recent. Last five recent." Five newest entries across pantry, recipes and shopping combined, newest first, within the three-day cap, with Show more and the filter pick under them for anything else. Applies on desktop too (H8). **Open (owner said "there's only two things in the mobile" and did not finish):** which two things are meant, for example two filter groups or two views. Not guessed here.
